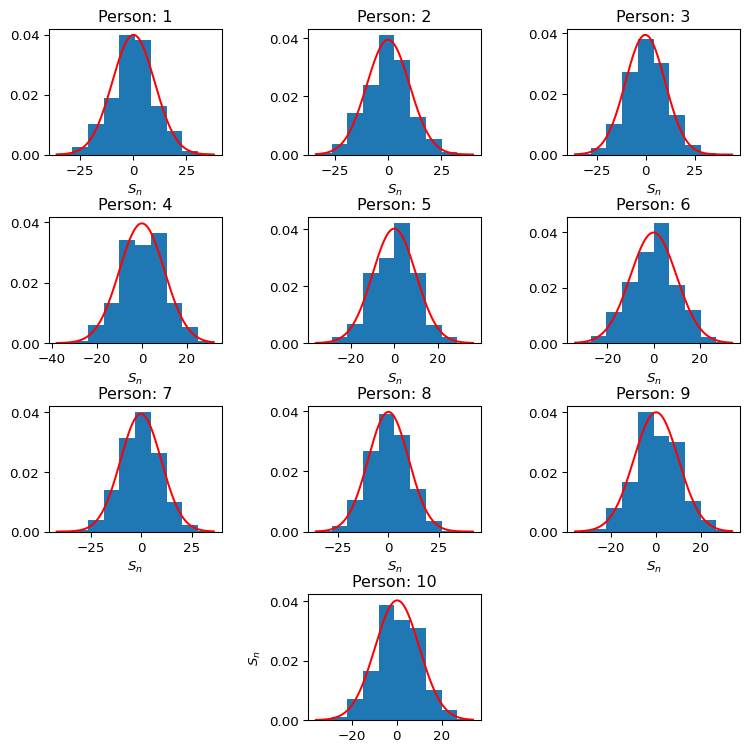
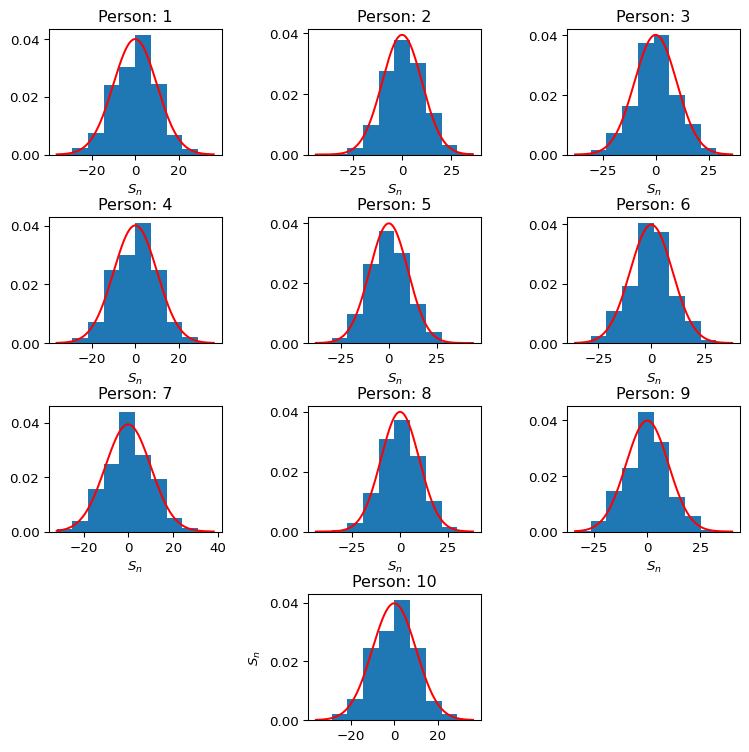
RandomWalk

diff --git a/Simulation_RandomWalk.md b/Simulation_RandomWalk.md
@@ -53,92 +53,92 @@ for j in range(10):
 
     random Walk of Person 1:
 
-    [ 1 -1 -1 -1 -1  1  1 -1  1  1  1 -1 -1  1  1 -1  1  1  1  1  1 -1 -1  1
-     -1 -1 -1  1  1  1 -1 -1  1  1  1  1  1  1 -1 -1  1 -1  1  1  1  1 -1  1
-     -1  1  1  1 -1  1  1  1  1  1  1 -1  1 -1 -1  1  1  1 -1 -1 -1  1  1  1
-      1  1  1 -1 -1 -1  1 -1  1  1 -1  1 -1 -1  1  1 -1 -1  1 -1 -1 -1  1  1
-     -1 -1 -1  1]
+    [-1  1  1  1 -1 -1  1  1  1  1 -1  1  1  1  1  1  1 -1 -1 -1  1  1 -1  1
+     -1 -1  1  1 -1  1  1  1 -1  1  1  1 -1  1 -1  1  1  1 -1 -1  1  1 -1  1
+      1 -1 -1  1  1 -1 -1 -1  1 -1 -1 -1 -1  1 -1  1  1 -1 -1  1  1 -1 -1  1
+     -1 -1  1  1  1  1  1 -1  1 -1 -1  1 -1 -1  1 -1  1  1  1 -1 -1  1  1 -1
+      1 -1 -1  1]
 
 
     random Walk of Person 2:
 
-    [-1 -1  1 -1 -1 -1  1  1  1 -1  1 -1 -1 -1  1  1  1 -1 -1  1 -1  1 -1 -1
-      1 -1  1  1 -1 -1 -1  1  1  1  1  1 -1  1 -1  1  1  1 -1  1  1  1  1 -1
-     -1  1  1  1 -1 -1  1 -1 -1 -1 -1 -1  1 -1  1 -1 -1  1 -1  1  1  1  1 -1
-     -1  1  1  1  1  1 -1  1  1 -1 -1  1 -1 -1  1 -1 -1 -1 -1  1 -1  1 -1  1
+    [-1  1  1 -1  1 -1 -1 -1 -1 -1  1 -1 -1 -1 -1 -1  1 -1  1 -1  1 -1  1 -1
+     -1 -1  1 -1  1  1  1 -1  1 -1 -1  1 -1  1  1  1 -1  1  1  1  1  1  1  1
+     -1 -1  1 -1  1  1  1 -1  1 -1  1 -1 -1  1  1  1  1  1  1  1  1 -1  1  1
+      1 -1 -1  1  1 -1 -1  1  1 -1 -1  1  1 -1 -1  1 -1 -1  1  1  1  1 -1  1
       1 -1  1 -1]
 
 
     random Walk of Person 3:
 
-    [ 1 -1  1  1  1 -1 -1  1 -1  1  1 -1 -1 -1 -1 -1 -1  1 -1 -1  1 -1  1  1
-     -1  1 -1 -1 -1 -1  1  1  1  1  1  1 -1 -1  1 -1  1 -1 -1 -1  1 -1 -1  1
-     -1 -1 -1 -1 -1 -1 -1 -1  1  1 -1  1  1  1  1  1  1 -1 -1 -1  1 -1 -1 -1
-     -1 -1 -1  1 -1 -1  1  1 -1  1 -1  1 -1  1 -1 -1 -1 -1 -1 -1  1  1  1  1
-     -1  1 -1  1]
+    [ 1 -1 -1 -1  1 -1 -1  1  1 -1  1  1 -1  1  1  1  1  1 -1  1  1 -1  1 -1
+      1 -1 -1 -1  1 -1 -1  1 -1  1  1  1 -1 -1  1  1  1  1  1  1  1  1  1  1
+      1 -1  1  1  1 -1 -1 -1 -1  1  1  1  1  1 -1 -1 -1  1 -1  1  1 -1  1  1
+      1 -1 -1 -1 -1 -1 -1  1 -1 -1 -1 -1  1 -1  1 -1  1 -1 -1 -1 -1 -1 -1 -1
+      1 -1 -1 -1]
 
 
     random Walk of Person 4:
 
-    [ 1  1 -1  1 -1  1 -1 -1  1  1  1  1 -1  1  1 -1 -1 -1 -1  1  1 -1  1  1
-     -1  1 -1 -1  1  1 -1 -1  1 -1 -1 -1  1  1  1 -1 -1  1  1 -1  1  1 -1  1
-     -1 -1 -1  1  1 -1 -1  1  1 -1 -1 -1  1 -1 -1 -1 -1 -1  1 -1 -1 -1  1 -1
-     -1  1  1  1  1  1 -1  1 -1  1  1 -1 -1  1 -1  1 -1 -1  1 -1  1  1  1  1
+    [-1  1 -1  1  1 -1  1  1  1  1  1  1  1 -1  1  1  1  1  1  1  1  1  1 -1
+     -1 -1  1 -1 -1 -1 -1  1  1 -1  1 -1  1 -1 -1 -1 -1 -1 -1  1 -1  1 -1  1
+     -1  1  1 -1 -1 -1  1 -1 -1 -1  1 -1 -1  1 -1 -1 -1  1 -1 -1  1 -1  1  1
+      1  1  1 -1  1 -1  1  1 -1  1  1 -1 -1 -1 -1 -1 -1  1 -1  1 -1  1 -1 -1
       1  1  1  1]
 
 
     random Walk of Person 5:
 
-    [ 1  1  1  1 -1  1 -1  1  1  1  1 -1  1 -1 -1 -1 -1  1  1 -1  1 -1  1 -1
-     -1 -1 -1 -1 -1 -1 -1  1 -1  1  1  1  1  1  1 -1  1 -1 -1  1 -1  1 -1 -1
-      1 -1  1 -1 -1  1 -1  1  1  1 -1  1 -1 -1 -1 -1  1 -1 -1  1  1  1 -1  1
-      1  1  1  1 -1 -1 -1  1 -1  1 -1 -1 -1 -1  1 -1 -1  1 -1 -1 -1 -1 -1  1
-     -1 -1  1 -1]
+    [ 1  1  1  1  1  1 -1  1 -1 -1  1  1 -1  1  1  1 -1  1 -1  1  1 -1  1 -1
+     -1  1  1 -1 -1 -1  1  1 -1 -1 -1 -1 -1  1  1 -1  1 -1  1  1 -1 -1 -1 -1
+      1 -1 -1  1  1  1  1 -1 -1  1  1 -1  1 -1  1  1  1  1  1 -1 -1 -1  1  1
+      1  1 -1 -1  1  1 -1  1 -1  1  1 -1 -1  1  1 -1  1 -1 -1 -1  1 -1  1 -1
+      1 -1  1  1]
 
 
     random Walk of Person 6:
 
-    [-1 -1 -1 -1  1 -1 -1 -1 -1 -1 -1 -1  1  1  1 -1  1  1  1  1  1  1  1  1
-     -1  1 -1 -1  1 -1 -1  1  1 -1 -1 -1  1 -1  1  1 -1  1 -1 -1 -1  1 -1 -1
-     -1 -1  1 -1 -1  1 -1 -1 -1  1 -1  1  1 -1  1 -1  1 -1 -1  1 -1  1  1  1
-     -1 -1 -1  1 -1 -1  1  1  1 -1  1  1 -1 -1  1  1  1 -1 -1  1 -1 -1  1 -1
-     -1 -1 -1  1]
+    [ 1  1 -1  1  1  1 -1  1 -1  1 -1  1 -1  1 -1  1 -1  1 -1 -1 -1  1  1  1
+     -1  1  1 -1 -1  1 -1 -1  1  1 -1 -1 -1 -1 -1  1  1  1 -1  1  1  1  1  1
+     -1 -1 -1 -1 -1  1  1  1  1 -1  1 -1  1  1 -1 -1  1  1  1  1 -1  1 -1  1
+      1 -1  1 -1 -1 -1  1 -1  1  1  1  1 -1 -1 -1  1  1  1 -1 -1 -1  1 -1 -1
+     -1  1 -1 -1]
 
 
     random Walk of Person 7:
 
-    [ 1  1 -1  1 -1  1 -1 -1  1 -1 -1  1 -1 -1  1 -1  1 -1 -1 -1 -1 -1 -1  1
-     -1  1  1  1  1  1 -1  1 -1 -1 -1  1  1 -1 -1 -1 -1  1 -1 -1  1  1  1 -1
-     -1 -1 -1  1 -1 -1 -1  1  1 -1  1  1  1 -1 -1  1  1  1 -1 -1  1 -1  1 -1
-     -1 -1 -1  1 -1 -1  1 -1  1  1 -1  1 -1  1  1  1 -1 -1 -1  1  1 -1 -1  1
-     -1  1 -1 -1]
+    [ 1  1  1  1 -1 -1 -1 -1 -1 -1  1  1 -1 -1 -1  1 -1 -1 -1  1 -1 -1  1  1
+     -1  1 -1  1 -1  1  1  1  1  1 -1  1  1 -1  1 -1 -1 -1  1 -1 -1  1 -1  1
+      1 -1  1 -1  1  1  1  1  1 -1 -1  1  1 -1  1  1  1 -1 -1 -1  1 -1  1 -1
+     -1  1 -1 -1 -1 -1  1  1 -1  1 -1 -1 -1 -1  1  1 -1  1 -1 -1 -1  1  1 -1
+      1 -1 -1  1]
 
 
     random Walk of Person 8:
 
-    [-1  1  1  1  1 -1 -1  1 -1  1  1  1  1 -1 -1  1  1  1 -1 -1  1  1 -1  1
-      1 -1  1 -1 -1 -1 -1  1  1  1 -1  1  1 -1  1 -1 -1 -1  1  1  1  1 -1 -1
-      1 -1  1 -1  1 -1 -1  1  1 -1  1  1  1 -1 -1 -1  1 -1  1  1  1 -1 -1 -1
-      1  1 -1  1  1  1  1  1  1 -1  1  1 -1  1 -1  1  1  1  1 -1  1  1 -1  1
-      1  1 -1  1]
+    [ 1 -1 -1  1 -1  1 -1  1  1 -1  1  1  1  1 -1 -1  1  1  1 -1  1 -1 -1 -1
+      1  1  1  1 -1 -1 -1  1  1 -1 -1  1 -1  1 -1  1  1 -1 -1 -1 -1 -1 -1 -1
+      1 -1  1 -1  1  1 -1 -1  1 -1 -1 -1  1 -1  1 -1  1 -1  1  1  1  1 -1  1
+     -1 -1 -1  1  1 -1 -1  1  1 -1 -1 -1  1 -1 -1 -1 -1 -1 -1 -1 -1 -1 -1  1
+      1 -1  1 -1]
 
 
     random Walk of Person 9:
 
-    [-1  1  1 -1  1  1  1 -1  1 -1  1  1 -1 -1  1  1 -1 -1 -1  1 -1  1 -1 -1
-      1  1  1  1  1 -1  1 -1 -1  1  1 -1 -1  1 -1  1 -1 -1 -1 -1  1 -1  1  1
-     -1 -1 -1 -1  1  1 -1  1 -1  1 -1  1 -1 -1 -1  1 -1 -1 -1  1 -1 -1  1 -1
-      1  1 -1  1  1 -1 -1  1  1 -1 -1  1  1 -1 -1 -1 -1  1  1 -1 -1 -1 -1 -1
+    [ 1 -1  1  1  1 -1  1  1  1 -1  1  1  1  1  1 -1  1  1  1  1  1 -1 -1 -1
+     -1 -1  1  1 -1 -1 -1 -1  1 -1 -1  1 -1 -1  1 -1 -1 -1 -1 -1 -1  1 -1 -1
+     -1 -1 -1  1  1  1  1  1 -1 -1 -1  1 -1  1 -1 -1  1 -1 -1  1  1 -1 -1  1
+     -1 -1 -1 -1  1  1 -1  1 -1  1 -1  1  1  1  1 -1  1 -1  1 -1  1 -1  1  1
      -1 -1  1 -1]
 
 
     random Walk of Person 10:
 
-    [ 1 -1  1  1 -1  1  1  1  1 -1 -1 -1 -1 -1  1  1  1  1 -1 -1  1 -1  1 -1
-      1  1  1 -1 -1 -1  1  1  1  1 -1  1  1  1  1 -1 -1 -1  1  1 -1 -1 -1  1
-      1 -1 -1  1 -1 -1  1 -1 -1 -1 -1 -1 -1 -1  1  1 -1 -1 -1  1 -1 -1 -1 -1
-     -1  1 -1 -1  1  1  1 -1  1 -1 -1 -1  1 -1 -1 -1  1  1 -1  1 -1 -1 -1 -1
-     -1 -1 -1  1]
+    [-1 -1  1 -1 -1  1 -1 -1  1  1  1  1  1  1 -1 -1  1 -1 -1  1 -1 -1 -1  1
+     -1 -1 -1 -1 -1 -1 -1  1 -1 -1  1 -1  1 -1  1 -1 -1  1 -1  1 -1  1 -1 -1
+     -1  1  1 -1  1 -1 -1  1  1 -1 -1  1 -1  1 -1  1  1 -1  1 -1  1  1 -1  1
+     -1 -1  1  1  1  1  1 -1  1 -1  1  1 -1  1  1 -1 -1  1 -1  1  1  1  1 -1
+      1  1  1 -1]
 
 ## section (b):
 
